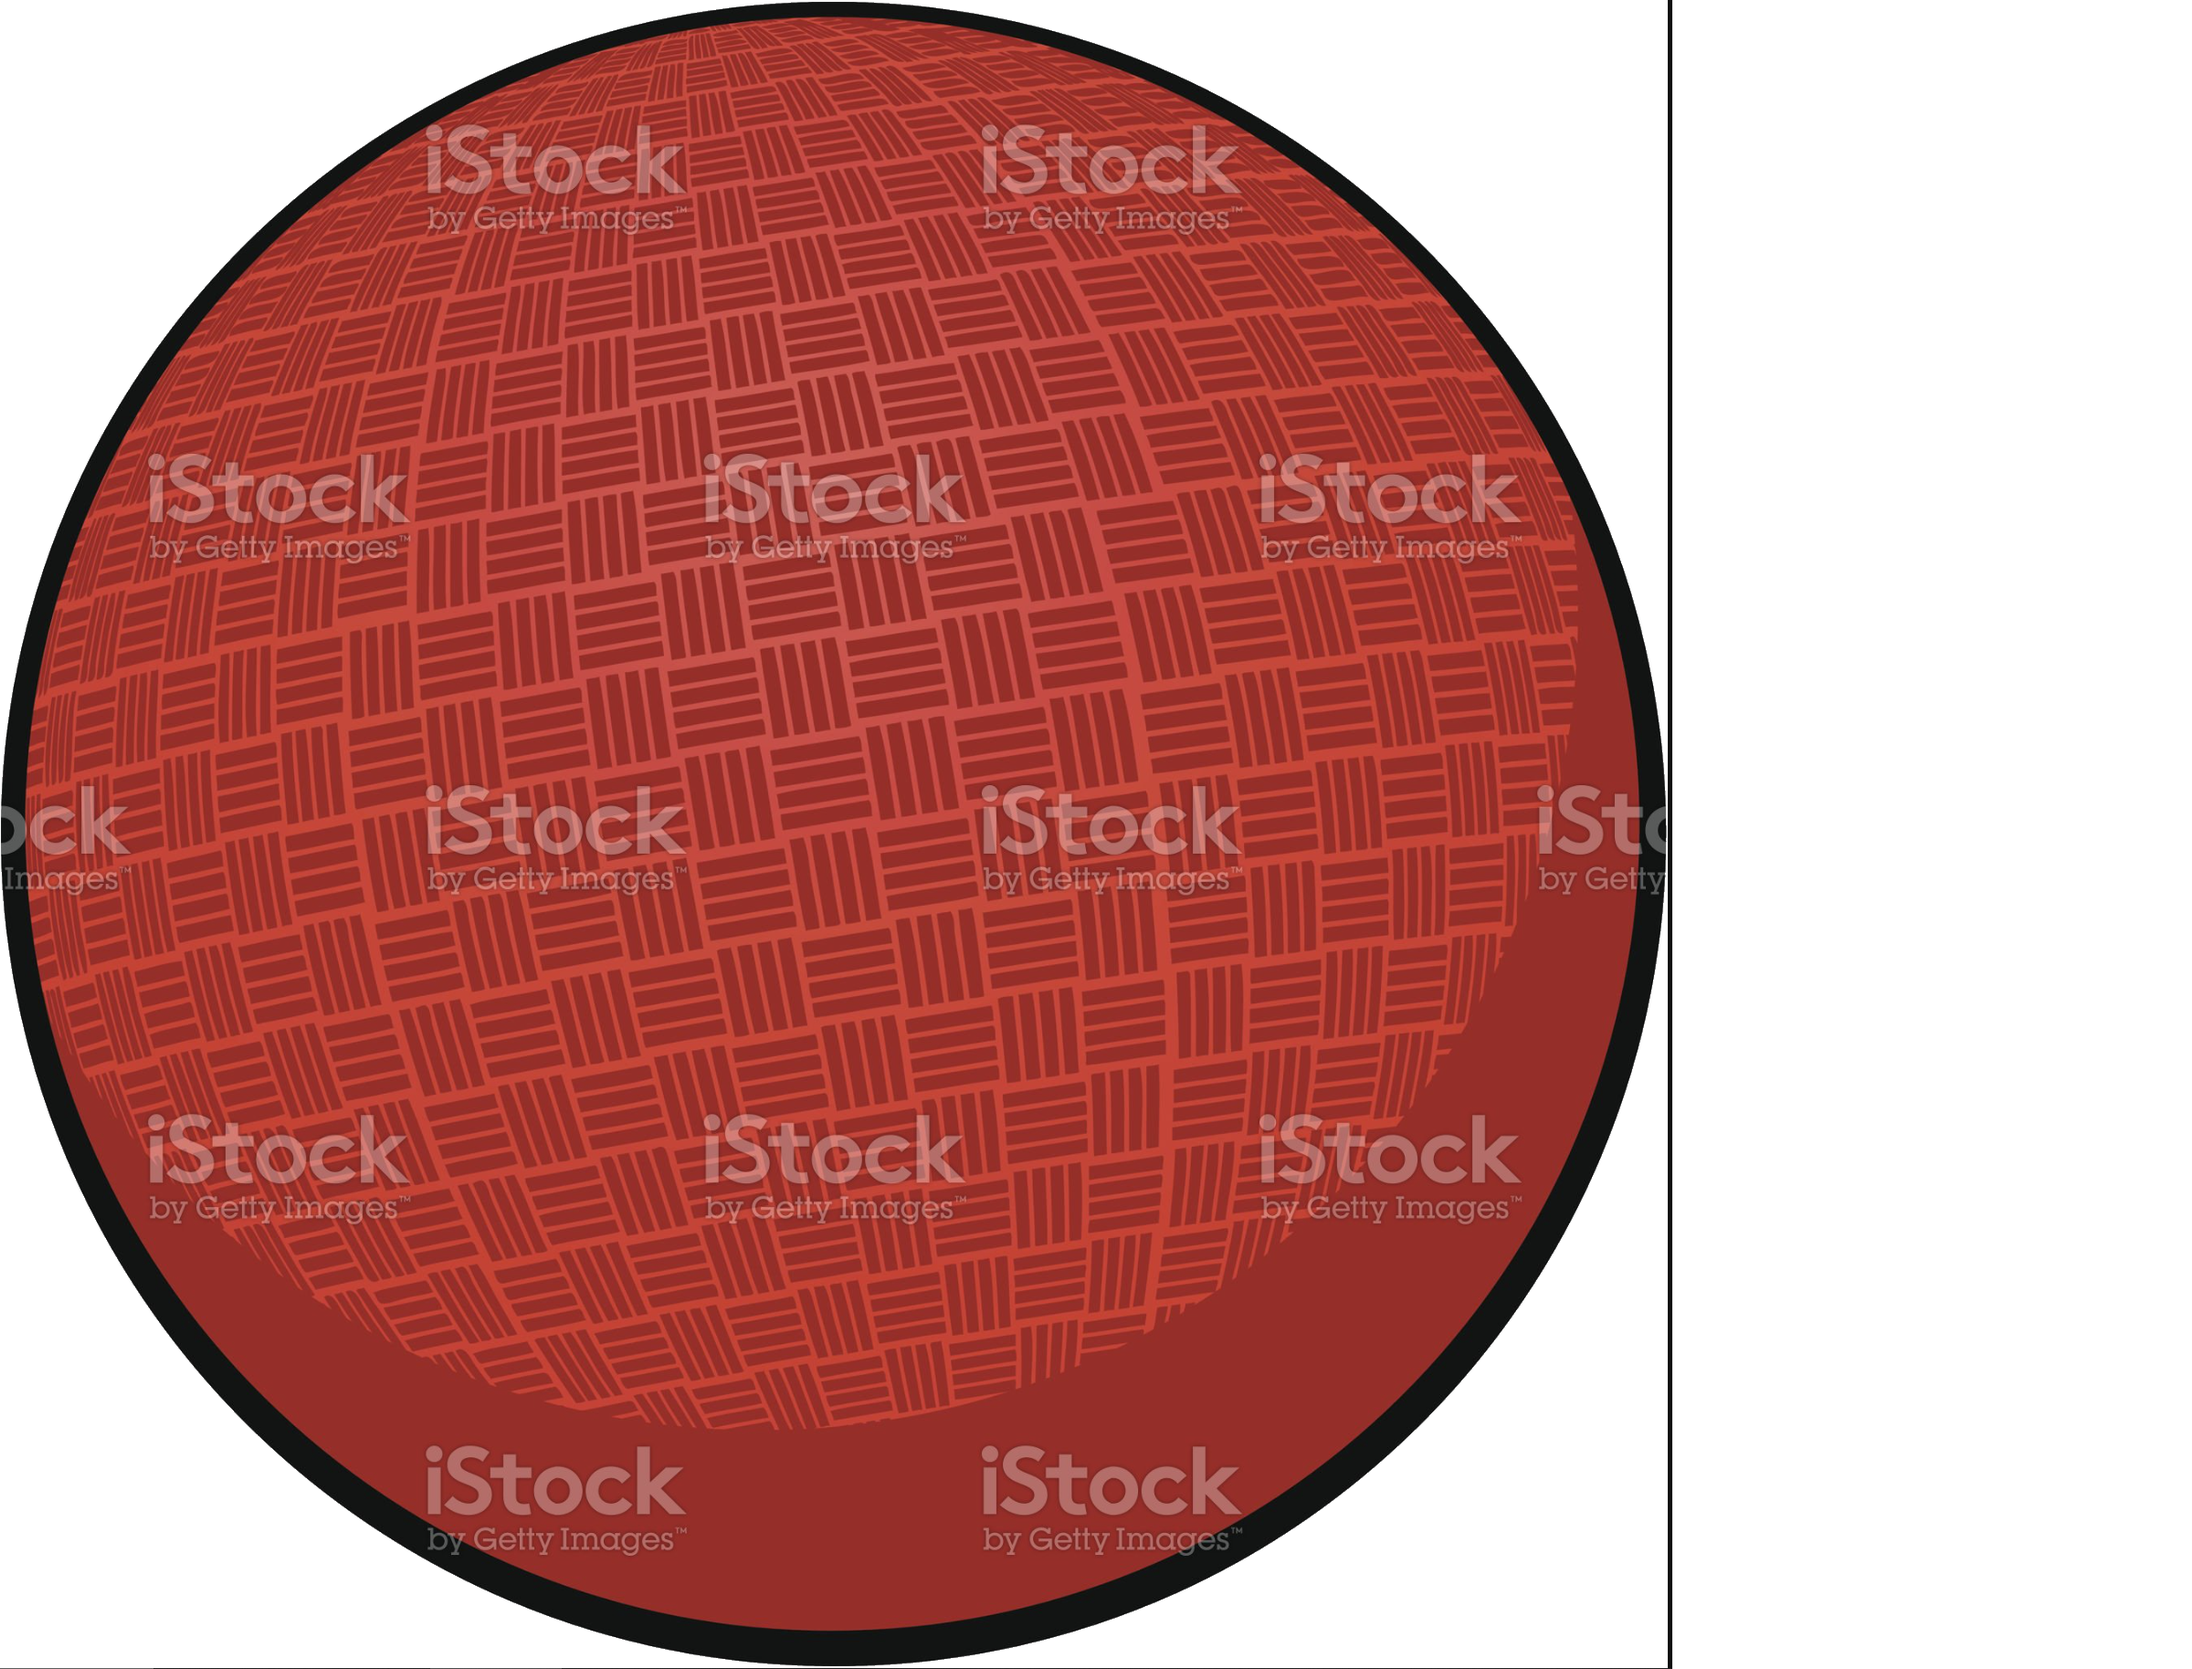
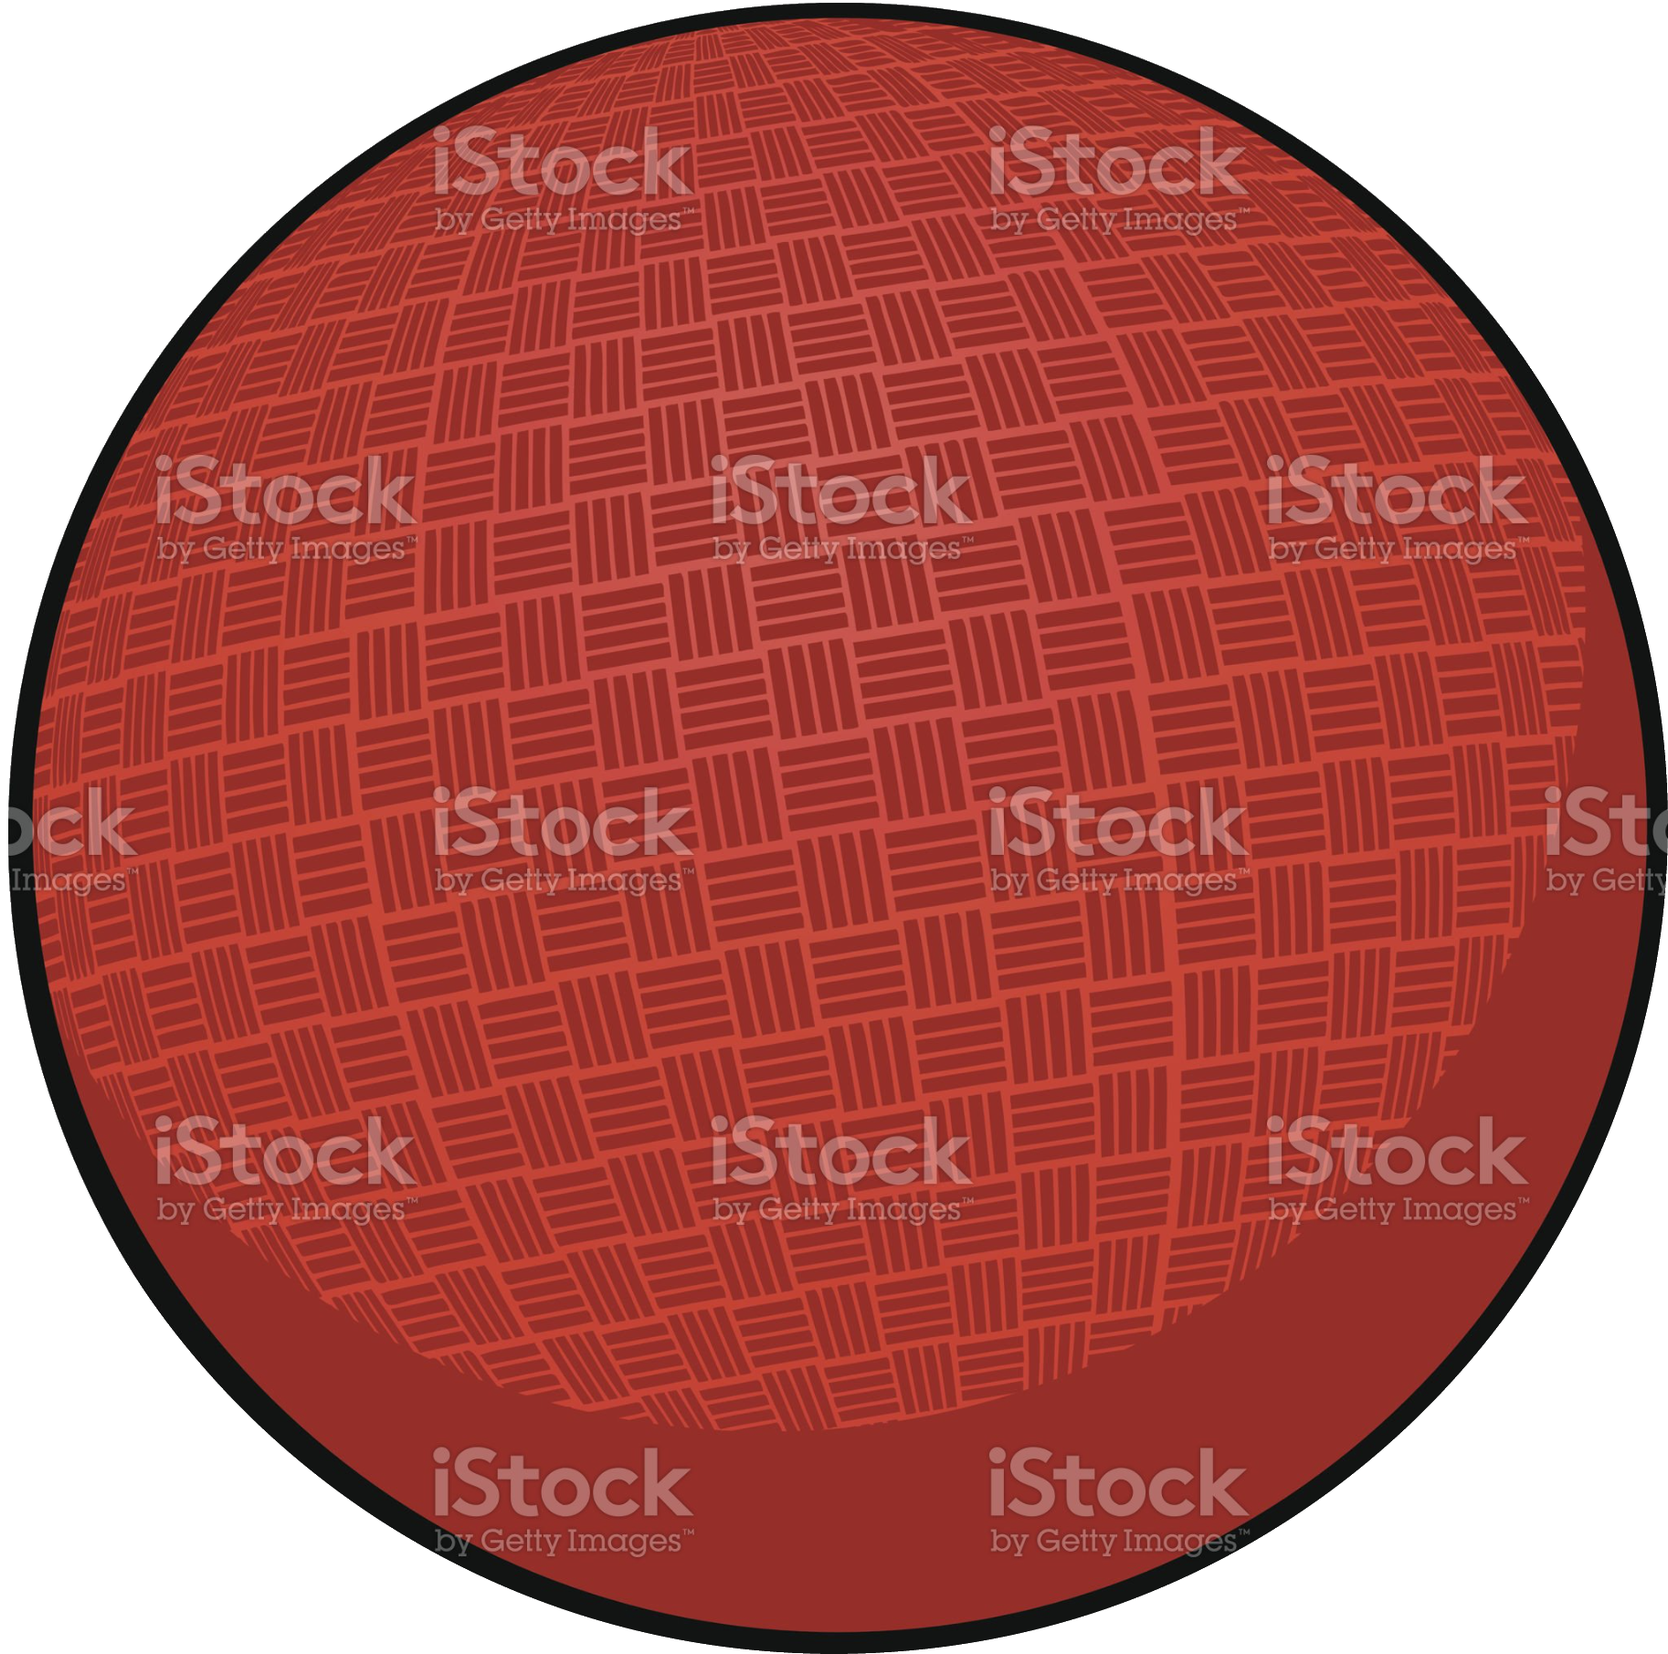
added more gameplay info in howtoplay, added a win/lose condition so the game actually ends, added rotating ball to homepage as test background

diff --git a/public/js/script.js b/public/js/script.js
@@ -7,7 +7,7 @@ const gameState = document.getElementById('pauseGame');
 
 let gamePaused = false;
 
-let enemyLevel = 30;
+
 
 
 
@@ -26,25 +26,26 @@ gameState.addEventListener('click', () => {
 canvas.width = window.innerWidth;
 canvas.height = window.innerHeight;
 
-window.addEventListener('resize', function () {
-    canvas.width = window.innerWidth;
-    canvas.height = window.innerHeight;
-});
+
 
 let hue = 0;
 
 let score = 0;
+let enemyLevel = 20;
 setInterval(
     function () {
-        if (score > 1 && enemyLevel > 10) {
-            if (score > 50) {
-                enemyLevel = 20;
+        if (score > 1 && enemyLevel > 5) {
+            if (score > 10 && enemyLevel == 20) {
+                enemyLevel = 15;
             }
-            if (score > 100) {
+            else if (score > 25 && enemyLevel == 15) {
                 enemyLevel = 10;
             }
-            if (score > 150) {
+            else if (score > 50 && enemyLevel == 10) {
                 enemyLevel = 5;
+            }
+            else if (score > 100 && enemyLevel == 5) {
+                enemyLevel = 1;
             }
             console.log("enemy level " + enemyLevel);
         }
@@ -81,8 +82,8 @@ const player = {
 
 class Enemy {
     constructor() {
-        this.x = 1500,
-            this.y = Math.random() * 500,
+        this.x = Math.floor(Math.random() * 1500 + 1000),
+            this.y = Math.floor(Math.random() * 500) ,
             this.width = 63,
             this.height = 81,
             this.frameX = 0,
@@ -301,7 +302,31 @@ let enemyTimer = 0;
 function animate() {
 
     if (!gamePaused) {
+        window.addEventListener('resize', function () {
+            canvas.width = window.innerWidth;
+            canvas.height = window.innerHeight;
+        });
         requestAnimationFrame(animate);
+    }
+    if (score >= 0 && penalty > score) {
+        console.log("STOP")
+        fpsInterval = undefined;
+        setInterval(function () {
+            if (canvas.width > 0) {
+                canvas.width--;
+                canvas.height--;
+
+                ctx.clearRect(0, 0, canvas.width, canvas.height);
+
+                ctx.drawImage(background, 0, 0, canvas.width, canvas.height);
+
+                drawSprite(playerSprite, player.width * player.frameX, player.height * player.frameY, player.width, player.height, player.x, player.y, player.width, player.height);
+            }
+
+        }, 1000);
+        setTimeout(function () {
+            gamePaused = true;
+        }, 5000);
     }
 
     hue++;
@@ -448,7 +473,7 @@ function animate() {
             enemyArray.forEach((enemy, index) => {
 
                 if (enemy.x + enemy.width <= 0) {
-                    penalty++;
+                    penalty = penalty + 5;
                     enemyArray.splice(index, 1)
                     console.log(enemyArray);
                     // console.log("Animals escaped: " + penalty)
@@ -463,7 +488,7 @@ function animate() {
     }
 
     // ENEMY SPAWN TIMER
-    if (enemyTimer % 10 === 0) {
+    if (enemyTimer % enemyLevel === 0) {
         enemyArray.push(new Enemy);
     }
     enemyTimer++;

diff --git a/public/css/homepage.css b/public/css/homepage.css
@@ -1,6 +1,6 @@
 body {
     /* background-image: url('https://cdn.dribbble.com/users/6140019/screenshots/15980925/media/d627e44760f2486413558689cfbc82ff.gif'); */
-    background-image: url('https://global-uploads.webflow.com/5b44edefca321a1e2d0c2aa6/5fbc2c7401b3ed06c6afcfb0_Dimensions-Sports-Dodgeball-Dimensions.svg'); 
+    /* background-image: url('https://global-uploads.webflow.com/5b44edefca321a1e2d0c2aa6/5fbc2c7401b3ed06c6afcfb0_Dimensions-Sports-Dodgeball-Dimensions.svg');  */
     background-size: cover;
     height: 100vh;
     width: 100vw;
@@ -8,6 +8,23 @@ body {
     margin: 0;
     text-decoration: none;
 }
+
+#backgroundImage {
+    background-size: contain;
+    height: 50%;
+    width: 50%;
+    animation: rotation 5s infinite linear;
+    vertical-align: center;
+    
+}
+@keyframes rotation {
+    from {
+      transform: rotate(0deg);
+    }
+    to {
+      transform: rotate(359deg);
+    }
+  }
 
 #loginSignup {
     margin-right: 10vw;
